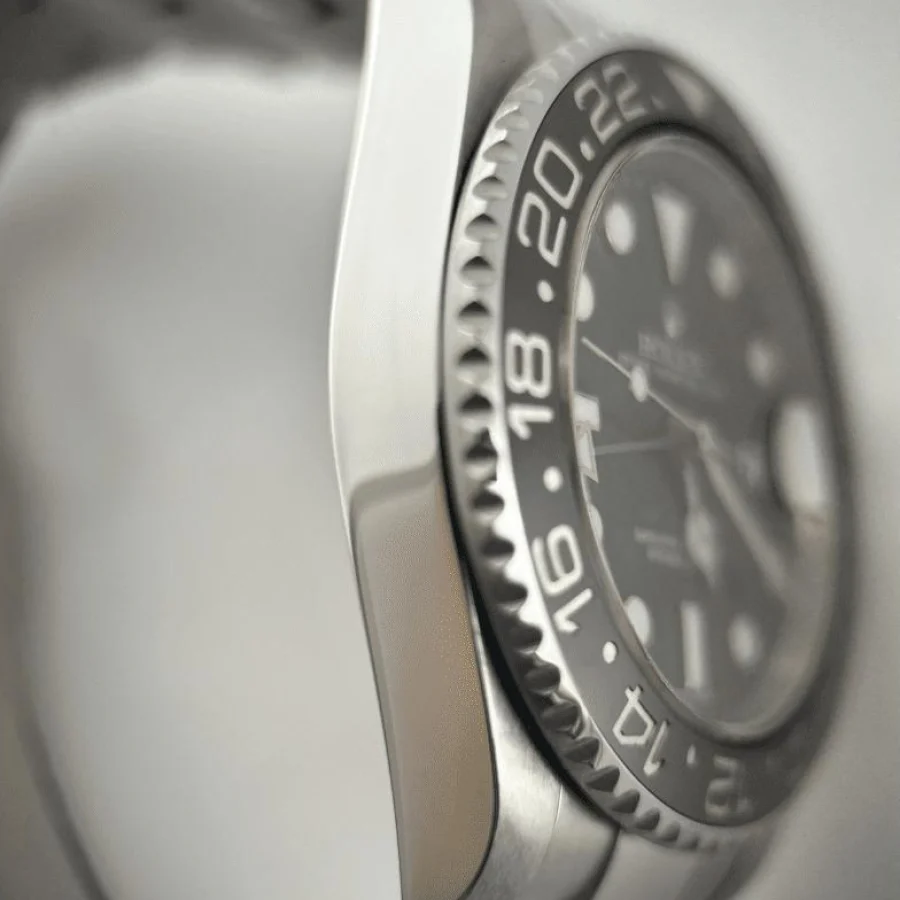
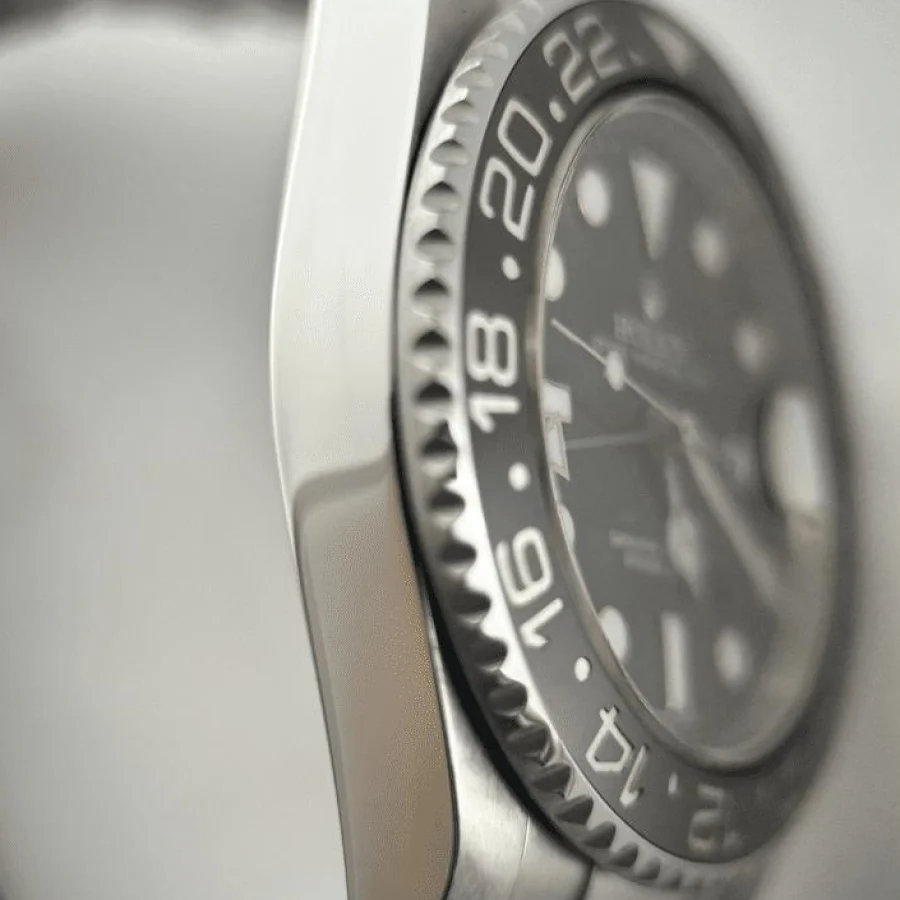
Prima e dopo: orologi centrati, i migliori per primi
- Ritagli centrati sul soggetto (baricentro dei contorni); ritaglio al
  centro per le foto in mano (--center)
- Ordine: Daytona acciaio e oro in mano, bracciale in mano, GMT, fondello
  Daytona, Explorer, poi gli altri

Claude-Session: https://claude.ai/code/session_01NCWZ2EgAfWjoZpzfAus64N

diff --git a/src/data/works.ts b/src/data/works.ts
@@ -15,18 +15,18 @@ export const works: Work[] = [
     after: "/lavori/daytona-acciaio-oro-dopo.webp",
   },
   {
+    slug: "daytona-bracciale",
+    watch: "Rolex Daytona acciaio e oro",
+    job: "Ripristino del bracciale Oyster",
+    before: "/lavori/daytona-bracciale-prima.webp",
+    after: "/lavori/daytona-bracciale-dopo.webp",
+  },
+  {
     slug: "gmt-ansa",
     watch: "Rolex GMT-Master II",
     job: "Ripristino di anse e cassa",
     before: "/lavori/gmt-ansa-prima.webp",
     after: "/lavori/gmt-ansa-dopo.webp",
-  },
-  {
-    slug: "oro-rosa-cassa",
-    watch: "Rolex in oro rosa",
-    job: "Lucidatura di cassa e bracciale",
-    before: "/lavori/oro-rosa-cassa-prima.webp",
-    after: "/lavori/oro-rosa-cassa-dopo.webp",
   },
   {
     slug: "daytona-fondello",
@@ -36,18 +36,25 @@ export const works: Work[] = [
     after: "/lavori/daytona-fondello-dopo.webp",
   },
   {
-    slug: "datejust-lunetta",
-    watch: "Rolex Datejust",
-    job: "Lucidatura di cassa e lunetta zigrinata",
-    before: "/lavori/datejust-lunetta-prima.webp",
-    after: "/lavori/datejust-lunetta-dopo.webp",
-  },
-  {
     slug: "explorer",
     watch: "Rolex Explorer II",
     job: "Sostituzione del vetro zaffiro rotto",
     before: "/lavori/explorer-prima.webp",
     after: "/lavori/explorer-dopo.webp",
+  },
+  {
+    slug: "oro-rosa-cassa",
+    watch: "Rolex in oro rosa",
+    job: "Lucidatura di cassa e bracciale",
+    before: "/lavori/oro-rosa-cassa-prima.webp",
+    after: "/lavori/oro-rosa-cassa-dopo.webp",
+  },
+  {
+    slug: "datejust-lunetta",
+    watch: "Rolex Datejust",
+    job: "Lucidatura di cassa e lunetta zigrinata",
+    before: "/lavori/datejust-lunetta-prima.webp",
+    after: "/lavori/datejust-lunetta-dopo.webp",
   },
   {
     slug: "acciaio-chiusura",
@@ -62,13 +69,6 @@ export const works: Work[] = [
     job: "Satinatura del bracciale in oro giallo",
     before: "/lavori/date-oro-prima.webp",
     after: "/lavori/date-oro-dopo.webp",
-  },
-  {
-    slug: "daytona-bracciale",
-    watch: "Rolex Daytona acciaio e oro",
-    job: "Ripristino del bracciale Oyster",
-    before: "/lavori/daytona-bracciale-prima.webp",
-    after: "/lavori/daytona-bracciale-dopo.webp",
   },
   {
     slug: "datejust-ansa",

diff --git a/scripts/prima-dopo.py b/scripts/prima-dopo.py
@@ -19,6 +19,7 @@ ap.add_argument("out")
 ap.add_argument("name")
 ap.add_argument("--top", type=int, default=0)
 ap.add_argument("--sep", type=int, default=None)
+ap.add_argument("--center", action="store_true", help="ritaglio al centro, senza cercare il soggetto (foto in mano, sfondi molto mossi)")
 a = ap.parse_args()
 
 img = cv2.imread(a.src, cv2.IMREAD_COLOR)
@@ -56,8 +57,21 @@ if M is not None and n_in >= 40:
         aligned = True
 print(f"{a.name}: separatore x={a.sep}  punti coerenti={n_in}  allineata={'sì' if aligned else 'no, solo ritaglio'}")
 
-side = min(mw, h)
-x0, y0 = (mw - side) // 2, (h - side) // 2
+# ritaglio quadrato centrato sul soggetto: il baricentro dei contorni di ogni metà
+def subject_crop(im, zoom):
+    hh, ww = im.shape[:2]
+    gray = cv2.GaussianBlur(cv2.cvtColor(im, cv2.COLOR_BGR2GRAY), (5, 5), 0)
+    edges = cv2.Canny(gray, 40, 120).astype(np.float32)
+    ys, xs = np.nonzero(edges)
+    cx, cy = (xs.mean(), ys.mean()) if len(xs) > 500 and not a.center else (ww / 2, hh / 2)
+    # a metà strada verso il centro: evita tagli troppo spinti
+    cx, cy = (cx + ww / 2) / 2, (cy + hh / 2) / 2
+    side = int(min(ww, hh) * zoom)
+    x0 = int(min(max(cx - side / 2, 0), ww - side))
+    y0 = int(min(max(cy - side / 2, 0), hh - side))
+    return im[y0 : y0 + side, x0 : x0 + side]
+
+zoom = 1.0 if aligned or a.center else 0.9
 for tag, im in (("prima", A), ("dopo", B)):
-    crop = cv2.resize(im[y0 : y0 + side, x0 : x0 + side], (900, 900), interpolation=cv2.INTER_AREA)
+    crop = cv2.resize(subject_crop(im, zoom), (900, 900), interpolation=cv2.INTER_AREA)
     cv2.imwrite(f"{a.out}/{a.name}-{tag}.webp", crop, [cv2.IMWRITE_WEBP_QUALITY, 86])
